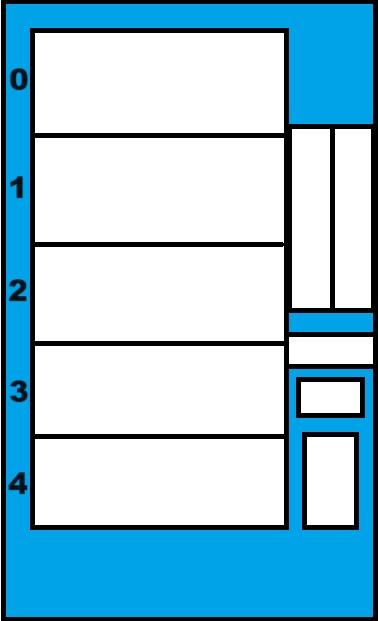
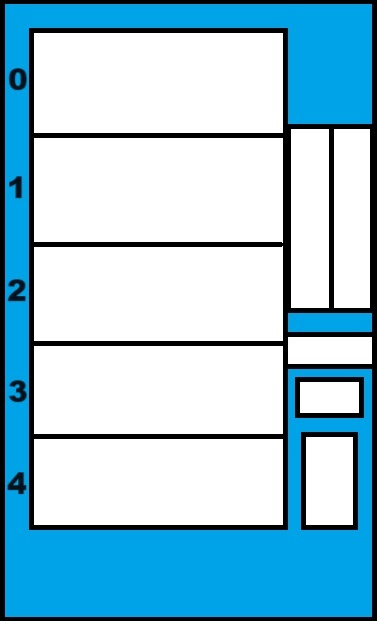
Arreglado el ajuste del expendedor a la pantalla

diff --git a/Tarea-3/src/main/java/org/Grafica/PantallaExpendedor.java b/Tarea-3/src/main/java/org/Grafica/PantallaExpendedor.java
@@ -30,14 +30,14 @@ public class PantallaExpendedor extends JPanel {
         botonMoneda=new BotonMoneda(this);
         setBackground(Color.BLACK);
         try {
-            imagen = ImageIO.read(new File("src/main/java/org/Grafica/Imagenes/Expende.jpg"));
+            imagen = ImageIO.read(new File("Tarea-3/src/main/java/org/Grafica/Imagenes/Expende.jpg"));
         }catch (IOException e){}
 
-        agregarImagenProductos((new ImageIcon("src/main/java/org/Grafica/Imagenes/Coca.jpg")).getImage(),cantidad,55);
-        agregarImagenProductos((new ImageIcon("src/main/java/org/Grafica/Imagenes/Sprite.jpg")).getImage(),cantidad,180);
-        agregarImagenProductos((new ImageIcon("src/main/java/org/Grafica/Imagenes/Fanta.jpg")).getImage(),cantidad,305);
-        agregarImagenProductos((new ImageIcon("src/main/java/org/Grafica/Imagenes/Snicker.png")).getImage(),cantidad,420);
-        agregarImagenProductos((new ImageIcon("src/main/java/org/Grafica/Imagenes/Super8.jpg")).getImage(),cantidad,535);
+        agregarImagenProductos((new ImageIcon("Tarea-3/src/main/java/org/Grafica/Imagenes/Coca.jpg")).getImage(),cantidad,55);
+        agregarImagenProductos((new ImageIcon("Tarea-3/src/main/java/org/Grafica/Imagenes/Sprite.jpg")).getImage(),cantidad,180);
+        agregarImagenProductos((new ImageIcon("Tarea-3/src/main/java/org/Grafica/Imagenes/Fanta.jpg")).getImage(),cantidad,305);
+        agregarImagenProductos((new ImageIcon("Tarea-3/src/main/java/org/Grafica/Imagenes/Snicker.png")).getImage(),cantidad,420);
+        agregarImagenProductos((new ImageIcon("Tarea-3/src/main/java/org/Grafica/Imagenes/Super8.jpg")).getImage(),cantidad,535);
     }
     @Override
     public void paintComponent(Graphics G){

diff --git a/Tarea-3/src/main/java/org/Grafica/PantallaPrincipal.java b/Tarea-3/src/main/java/org/Grafica/PantallaPrincipal.java
@@ -17,7 +17,7 @@ public class PantallaPrincipal extends JPanel {
         pantallaComprador=new PantallaComprador();
         pantallaExpendedor=new PantallaExpendedor();
         //pantallaComprador.setBounds(400,100,500,500);
-        pantallaExpendedor.setBounds(10,10,500,750);
+        pantallaExpendedor.setBounds(0,0,500,750);
         setBackground(Color.white);
         this.add(pantallaExpendedor);
         this.add(pantallaComprador);

diff --git a/Tarea-3/src/main/java/org/Grafica/Botones/BotonMoneda.java b/Tarea-3/src/main/java/org/Grafica/Botones/BotonMoneda.java
@@ -8,7 +8,7 @@ public class BotonMoneda {
     private JButton insertarMoneda;
     public BotonMoneda(PantallaExpendedor p) {
         insertarMoneda=new JButton("Pon Moneda");
-        insertarMoneda.setBounds(381,407,111,33);
+        insertarMoneda.setBounds(382,407,111,33);
         p.setLayout(null);
         p.add(insertarMoneda);
     }

diff --git a/Tarea-3/src/main/java/org/Grafica/Botones/BotonSuper8.java b/Tarea-3/src/main/java/org/Grafica/Botones/BotonSuper8.java
@@ -8,7 +8,7 @@ public class BotonSuper8{
     private JButton insertarMoneda;
     public BotonSuper8(PantallaExpendedor p) {
         insertarMoneda=new JButton("4");
-        insertarMoneda.setBounds(385,300,50,72);
+        insertarMoneda.setBounds(386,300,50,72);
         p.setLayout(null);
         p.add(insertarMoneda);
     }

diff --git a/Tarea-3/src/main/java/org/Grafica/Botones/BotonFanta.java b/Tarea-3/src/main/java/org/Grafica/Botones/BotonFanta.java
@@ -6,7 +6,7 @@ public class BotonFanta {
     private JButton insertarMoneda;
     public BotonFanta(PantallaExpendedor p) {
         insertarMoneda=new JButton("2");
-        insertarMoneda.setBounds(385,228,50,72);
+        insertarMoneda.setBounds(386,228,50,72);
         p.setLayout(null);
         p.add(insertarMoneda);
     }

diff --git a/Tarea-3/src/main/java/org/Grafica/Botones/BotonCoca.java b/Tarea-3/src/main/java/org/Grafica/Botones/BotonCoca.java
@@ -6,7 +6,7 @@ public class BotonCoca {
     private JButton insertarMoneda;
     public BotonCoca(PantallaExpendedor p) {
         insertarMoneda=new JButton("0");
-        insertarMoneda.setBounds(385,156,50,72);
+        insertarMoneda.setBounds(386,156,50,72);
         p.setLayout(null);
         p.add(insertarMoneda);
     }

diff --git a/Tarea-3/src/main/java/org/Grafica/MiVentana.java b/Tarea-3/src/main/java/org/Grafica/MiVentana.java
@@ -9,7 +9,7 @@ public class MiVentana extends JFrame {
 
     public MiVentana() {
         pantalla= new PantallaPrincipal();
-        setSize(800, 800);
+        setSize(1000, 789);
         add(pantalla);
         setDefaultCloseOperation(JFrame.EXIT_ON_CLOSE);
         setVisible(true);
